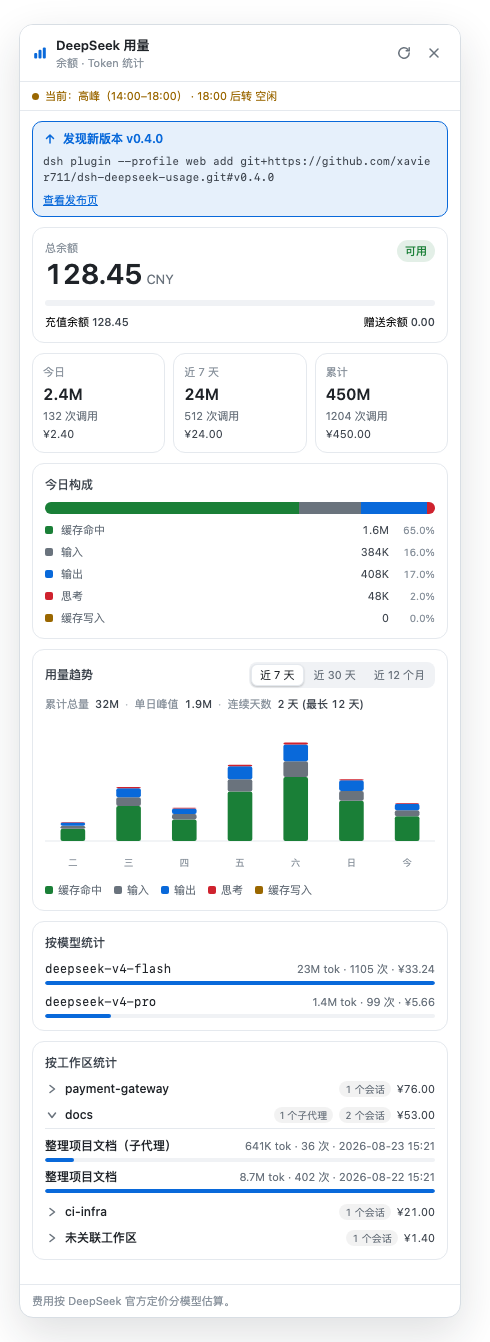
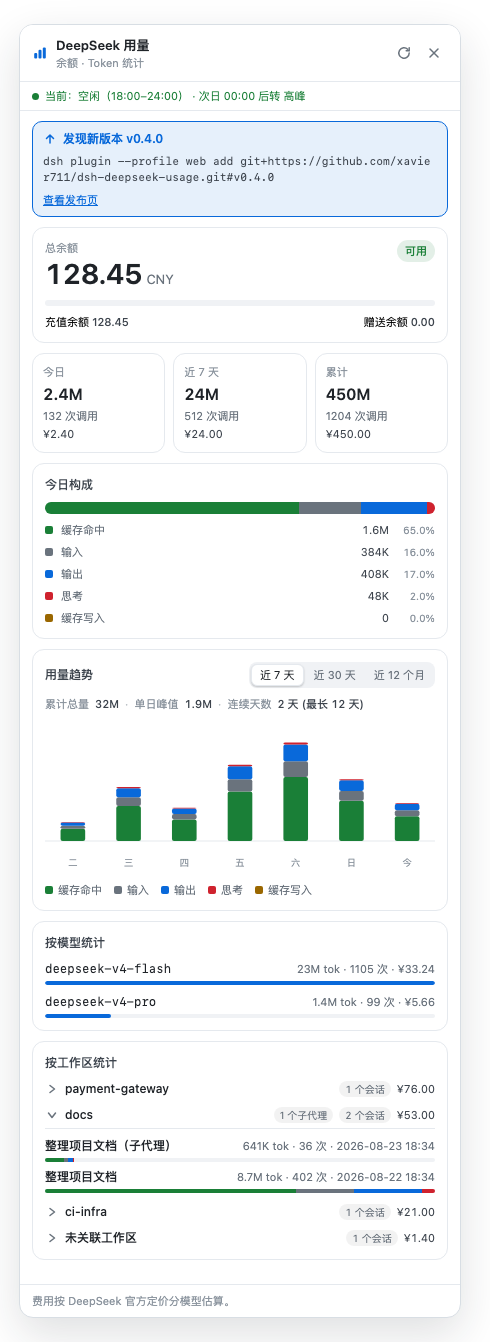
feat: 会话进度条改为 token 构成堆叠条 + 悬停完整明细
- 原单色相对 token 条语义模糊、与行内文字信息重复，改为构成堆叠条：
  按缓存命中/输入/输出/思考/缓存写入分段着色（复用趋势图色板），
  条长仍相对同工作区列表最大值，一眼可辨 token 花在哪种计费类别
- 悬停会话行显示完整明细 tooltip（各类 token + 估算费用），与模型行同款交互
- 移除临时加的 title 提示文案；截图重新生成

diff --git a/lib/client.js b/lib/client.js
@@ -127,8 +127,8 @@ window.__ModuleLoader__.load({
 .du-sessionHead{flex:none;align-items:center;gap:8px;min-width:0;display:flex}
 .du-sessionTitle{min-width:0;color:var(--dsw-alias-label-primary);text-overflow:ellipsis;white-space:nowrap;flex:1;font-size:12px;font-weight:500;line-height:18px;overflow:hidden}
 .du-sessionMeta{color:var(--dsw-alias-label-tertiary);flex:none;font-size:11px;line-height:18px}
-.du-sessionBar{background:var(--dsw-alias-fill-l2);border-radius:999px;flex:none;height:4px;overflow:hidden}
-.du-sessionBar>span{background:var(--dsw-alias-state-business-primary);border-radius:999px;height:100%;display:block}
+.du-sessionBar{background:var(--dsw-alias-fill-l2);border-radius:999px;flex:none;height:4px;display:flex;overflow:hidden}
+.du-sessionBar>span{height:100%;display:block}
 .du-wsItem{flex:none;flex-direction:column;display:flex}
 .du-wsHeader{box-sizing:border-box;flex:none;align-items:center;gap:6px;min-width:0;width:100%;color:var(--dsw-alias-label-primary);cursor:pointer;background:0 0;border:none;padding:0;font-family:inherit;font-size:12px;line-height:18px;text-align:left;display:flex}
 .du-wsHeader:hover .du-wsName{color:var(--dsw-alias-state-business-primary)}
@@ -678,24 +678,50 @@ window.__ModuleLoader__.load({
       );
     }
 
-    /** Per-session rows, most recently active first, with a relative token bar. */
+    /**
+     * Per-session rows, most recently active first. The thin bar is a token
+     * COMPOSITION stack (segment colors match the trend chart), scaled
+     * against the largest session in the same list; hovering a row shows the
+     * full breakdown (tokens by category + estimated cost).
+     */
     function SessionList({ sessions, t }) {
+      const [tip, show, hide] = useChartTip();
       const sorted = [...sessions].sort((a, b) => (b.lastActiveAt ?? 0) - (a.lastActiveAt ?? 0));
       const max = Math.max(1, ...sorted.map((s) => bucketTokens(s)));
+      const segments = [
+        ["cacheReadTokens", "var(--du-cacheRead)"],
+        ["inputTokens", "var(--du-input)"],
+        ["outputTokens", "var(--du-output)"],
+        ["reasoningTokens", "var(--du-reasoning)"],
+        ["cacheWriteTokens", "var(--du-cacheWrite)"]
+      ];
       return react.createElement("ul", { className: styles.sessionList },
         sorted.map((session) => {
           const tokens = bucketTokens(session);
-          const pct = Math.round((tokens / max) * 100);
-          return react.createElement("li", { className: styles.sessionRow, key: session.id },
+          const content = react.createElement(TipBody, {
+            heading: session.title || session.id,
+            rows: tipRows(session, t)
+          });
+          return react.createElement("li", {
+            className: styles.sessionRow,
+            key: session.id,
+            onMouseEnter: (e) => show(e, content),
+            onMouseLeave: hide
+          },
             react.createElement("div", { className: styles.sessionHead },
               react.createElement("span", { className: styles.sessionTitle, title: session.title || session.id }, session.title || session.id),
               react.createElement("span", { className: styles.sessionMeta }, t("local.sessionMeta", { tokens: fmtCompact(tokens), calls: session.calls ?? 0, date: fmtDate(session.lastActiveAt ?? session.createdAt) }))
             ),
-            react.createElement("div", { className: styles.sessionBar, title: t("local.sessionBarHint", { tokens: fmtInt(tokens), pct }) },
-              react.createElement("span", { style: { width: `${(tokens / max) * 100}%` } })
+            react.createElement("div", { className: styles.sessionBar },
+              segments.map(([field, color]) => {
+                const width = ((session[field] ?? 0) / max) * 100;
+                if (width <= 0) return null;
+                return react.createElement("span", { key: field, style: { width: `${width}%`, background: color } });
+              })
             )
           );
-        })
+        }),
+        react.createElement(ChartTip, { tip })
       );
     }
 
@@ -1230,7 +1256,6 @@ window.__ModuleLoader__.load({
       "local.estimated": "估算",
       "local.modelMeta": "{tokens} tok · {calls} 次 · {cost}",
       "local.sessionMeta": "{tokens} tok · {calls} 次 · {date}",
-      "local.sessionBarHint": "{tokens} tokens · 占本工作区会话最大值 {pct}%",
       "update.available": "发现新版本 v{version}",
       "update.releases": "查看发布页",
       "panel.note": "费用按 DeepSeek 官方定价分模型估算。"
@@ -1324,7 +1349,6 @@ window.__ModuleLoader__.load({
       "local.estimated": "est.",
       "local.modelMeta": "{tokens} tok · {calls} calls · {cost}",
       "local.sessionMeta": "{tokens} tok · {calls} calls · {date}",
-      "local.sessionBarHint": "{tokens} tokens · {pct}% of workspace max",
       "update.available": "New version v{version} available",
       "update.releases": "Releases",
       "panel.note": "Cost is estimated per model at official DeepSeek rates."

diff --git a/screenshots/render-test.html b/screenshots/render-test.html
@@ -165,7 +165,6 @@ window.__ZH = {
       "local.estimated": "估算",
       "local.modelMeta": "{tokens} tok · {calls} 次 · {cost}",
       "local.sessionMeta": "{tokens} tok · {calls} 次 · {date}",
-      "local.sessionBarHint": "{tokens} tokens · 占本工作区会话最大值 {pct}%",
       "update.available": "发现新版本 v{version}",
       "update.releases": "查看发布页",
       "panel.note": "费用按 DeepSeek 官方定价分模型估算。"
@@ -187,7 +186,7 @@ window.__ZH = {
   const SAMPLE = {
  "/dsh-usage/balance": {
   "ok": true,
-  "fetchedAt": 1787567493560,
+  "fetchedAt": 1787567686492,
   "isAvailable": true,
   "currency": "CNY",
   "totalBalance": "128.45",
@@ -196,13 +195,13 @@ window.__ZH = {
  },
  "/dsh-usage/local": {
   "ok": true,
-  "fetchedAt": 1787567493560,
+  "fetchedAt": 1787567686492,
   "sessionCount": 3,
   "errorSessions": 0,
   "pricing": {
    "currency": "CNY",
    "note": "official",
-   "newPricingAt": 1787567493560,
+   "newPricingAt": 1787567686492,
    "weekendOffPeakAt": 1787414400000,
    "peakHours": [
     [
@@ -4001,8 +4000,8 @@ window.__ZH = {
     "title": "优化支付网关性能",
     "workspace": "/Users/alice/dev/payment-gateway",
     "subagent": false,
-    "createdAt": 1787481093560,
-    "lastActiveAt": 1787563893560,
+    "createdAt": 1787481286492,
+    "lastActiveAt": 1787564086492,
     "calls": 618,
     "inputTokens": 1900000,
     "outputTokens": 2100000,
@@ -4017,8 +4016,8 @@ window.__ZH = {
     "title": "整理项目文档",
     "workspace": "/Users/alice/docs",
     "subagent": false,
-    "createdAt": 1787394693560,
-    "lastActiveAt": 1787394693560,
+    "createdAt": 1787394886492,
+    "lastActiveAt": 1787394886492,
     "calls": 402,
     "inputTokens": 1300000,
     "outputTokens": 1500000,
@@ -4033,8 +4032,8 @@ window.__ZH = {
     "title": "修复 CI 流水线",
     "workspace": "/Users/alice/ci-infra",
     "subagent": false,
-    "createdAt": 1787308293560,
-    "lastActiveAt": 1787308293560,
+    "createdAt": 1787308486492,
+    "lastActiveAt": 1787308486492,
     "calls": 184,
     "inputTokens": 500000,
     "outputTokens": 600000,
@@ -4049,8 +4048,8 @@ window.__ZH = {
     "title": "整理项目文档（子代理）",
     "workspace": "/Users/alice/docs",
     "subagent": true,
-    "createdAt": 1787394693560,
-    "lastActiveAt": 1787481093560,
+    "createdAt": 1787394886492,
+    "lastActiveAt": 1787481286492,
     "calls": 36,
     "inputTokens": 90000,
     "outputTokens": 110000,
@@ -4065,8 +4064,8 @@ window.__ZH = {
     "title": "临时想法速记",
     "workspace": null,
     "subagent": false,
-    "createdAt": 1787221893560,
-    "lastActiveAt": 1787221893560,
+    "createdAt": 1787222086492,
+    "lastActiveAt": 1787222086492,
     "calls": 27,
     "inputTokens": 60000,
     "outputTokens": 80000,
@@ -4120,8 +4119,8 @@ window.__ZH = {
       "id": "s1",
       "title": "优化支付网关性能",
       "subagent": false,
-      "createdAt": 1787481093560,
-      "lastActiveAt": 1787563893560,
+      "createdAt": 1787481286492,
+      "lastActiveAt": 1787564086492,
       "calls": 618,
       "inputTokens": 1900000,
       "outputTokens": 2100000,
@@ -4174,8 +4173,8 @@ window.__ZH = {
       "id": "s2",
       "title": "整理项目文档",
       "subagent": false,
-      "createdAt": 1787394693560,
-      "lastActiveAt": 1787394693560,
+      "createdAt": 1787394886492,
+      "lastActiveAt": 1787394886492,
       "calls": 402,
       "inputTokens": 1300000,
       "outputTokens": 1500000,
@@ -4188,8 +4187,8 @@ window.__ZH = {
       "id": "s4",
       "title": "整理项目文档（子代理）",
       "subagent": true,
-      "createdAt": 1787394693560,
-      "lastActiveAt": 1787481093560,
+      "createdAt": 1787394886492,
+      "lastActiveAt": 1787481286492,
       "calls": 36,
       "inputTokens": 90000,
       "outputTokens": 110000,
@@ -4242,8 +4241,8 @@ window.__ZH = {
       "id": "s3",
       "title": "修复 CI 流水线",
       "subagent": false,
-      "createdAt": 1787308293560,
-      "lastActiveAt": 1787308293560,
+      "createdAt": 1787308486492,
+      "lastActiveAt": 1787308486492,
       "calls": 184,
       "inputTokens": 500000,
       "outputTokens": 600000,
@@ -4296,8 +4295,8 @@ window.__ZH = {
       "id": "s5",
       "title": "临时想法速记",
       "subagent": false,
-      "createdAt": 1787221893560,
-      "lastActiveAt": 1787221893560,
+      "createdAt": 1787222086492,
+      "lastActiveAt": 1787222086492,
       "calls": 27,
       "inputTokens": 60000,
       "outputTokens": 80000,
@@ -4312,7 +4311,7 @@ window.__ZH = {
  },
  "/dsh-usage/version": {
   "ok": true,
-  "checkedAt": 1787567493560,
+  "checkedAt": 1787567686492,
   "installed": "0.1.0",
   "latest": "0.4.0",
   "updateAvailable": true,
@@ -4320,7 +4319,7 @@ window.__ZH = {
  },
  "/dsh-usage/period": {
   "ok": true,
-  "now": 1787567493560,
+  "now": 1787567686491,
   "period": "offPeak",
   "range": [
    1080,
